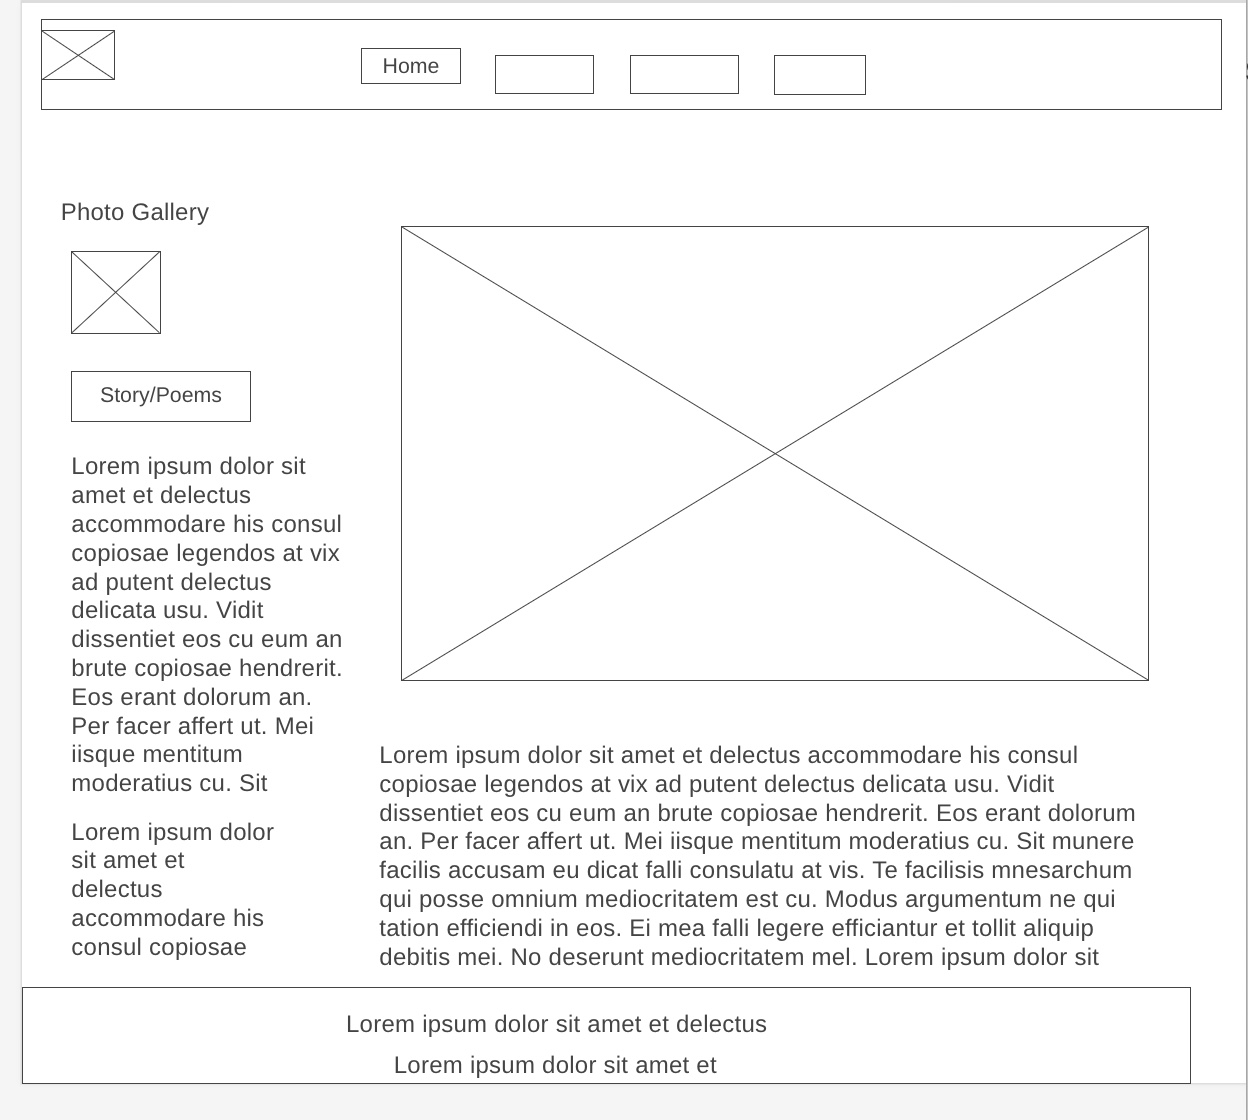
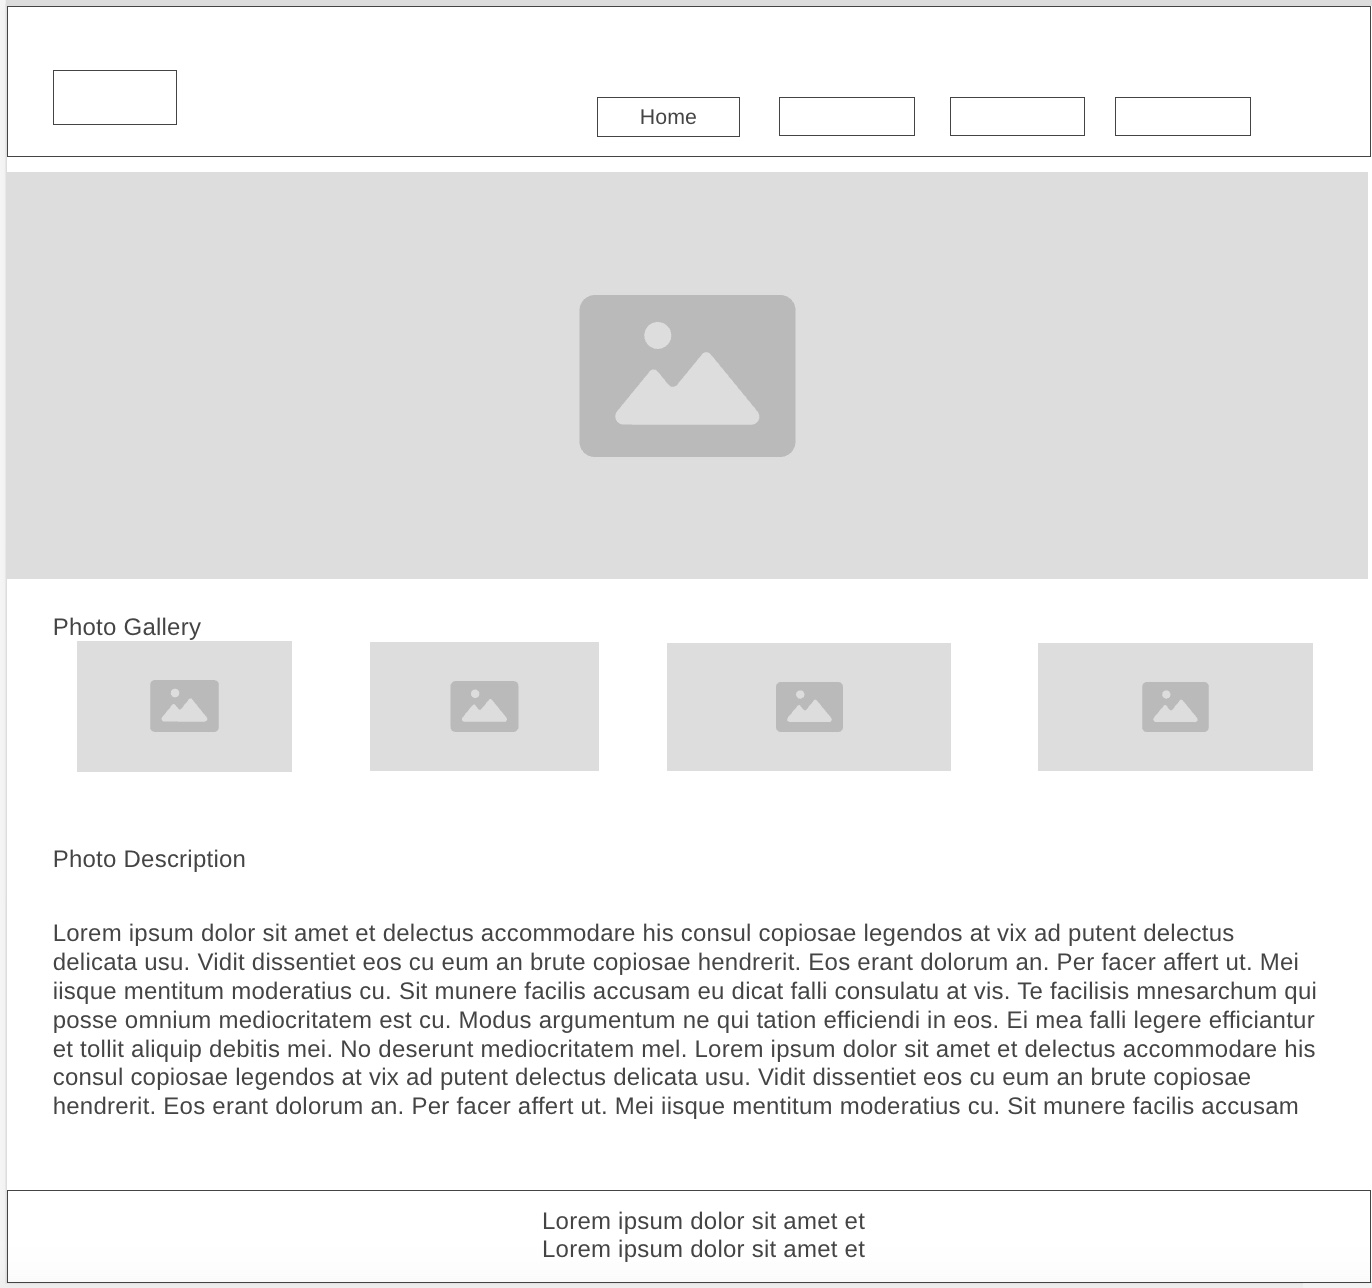
add

diff --git a/home.html b/home.html
@@ -22,7 +22,7 @@
         </ul>
     </nav>
     <main>
-        <img src="images/tulips.jpeg" alt="Home Image">
+        <div class="home"><img src="images/tulips.jpeg" alt="Home Image"></div>
         <h2>Photo Gallery</h2>
         <div class="gallery">
             <div class="gallery-item">

diff --git a/styles/home.css b/styles/home.css
@@ -65,6 +65,12 @@ nav .logo{
   font-family:fantasy;
   margin-left: 20px;
 }
+.home img{
+  float: right;
+  width: 100%;
+  height: 100%;
+
+}
 @media(max-width: 800px){
   nav .mainMenu{
     height: 100wh;
